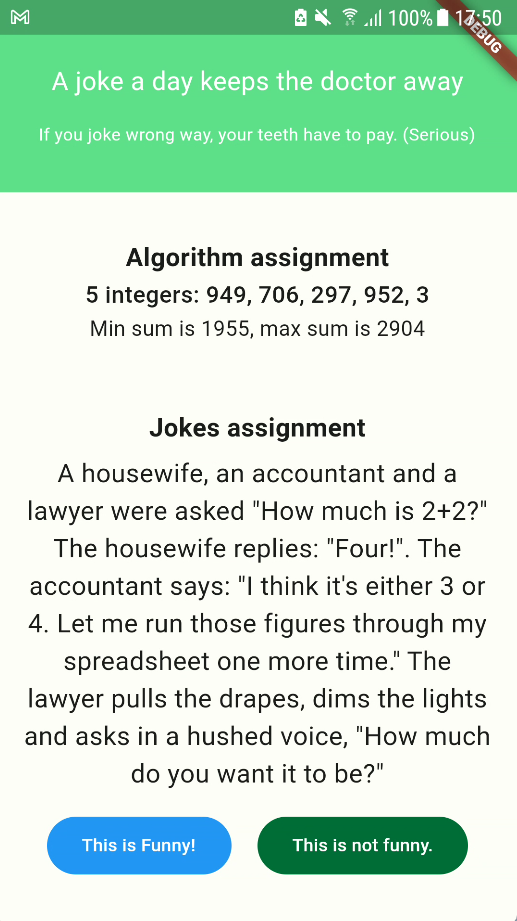
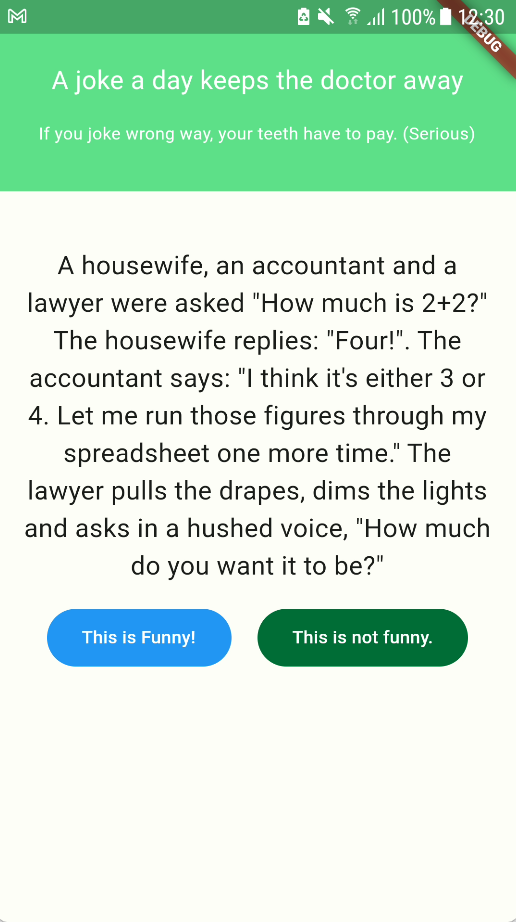
update 2 image for the product of mobile project

diff --git a/mobile/lib/widgets/jokes_assignment.dart b/mobile/lib/widgets/jokes_assignment.dart
@@ -12,15 +12,15 @@ class JokesAssignment extends StatelessWidget {
       mainAxisSize: MainAxisSize.min,
       mainAxisAlignment: MainAxisAlignment.center,
       children: [
-        Text(
-          'Jokes assignment',
-          textAlign: TextAlign.center,
-          softWrap: true,
-          style: TextStyle(
-            fontSize: MediaQuery.sizeOf(context).width * 0.055,
-            fontWeight: FontWeight.bold,
-          ),
-        ),
+        // Text(
+        //   'Jokes assignment',
+        //   textAlign: TextAlign.center,
+        //   softWrap: true,
+        //   style: TextStyle(
+        //     fontSize: MediaQuery.sizeOf(context).width * 0.055,
+        //     fontWeight: FontWeight.bold,
+        //   ),
+        // ),
         const SpaceByPercent(percentHeight: 0.01),
 
         // solve jokes assignment
